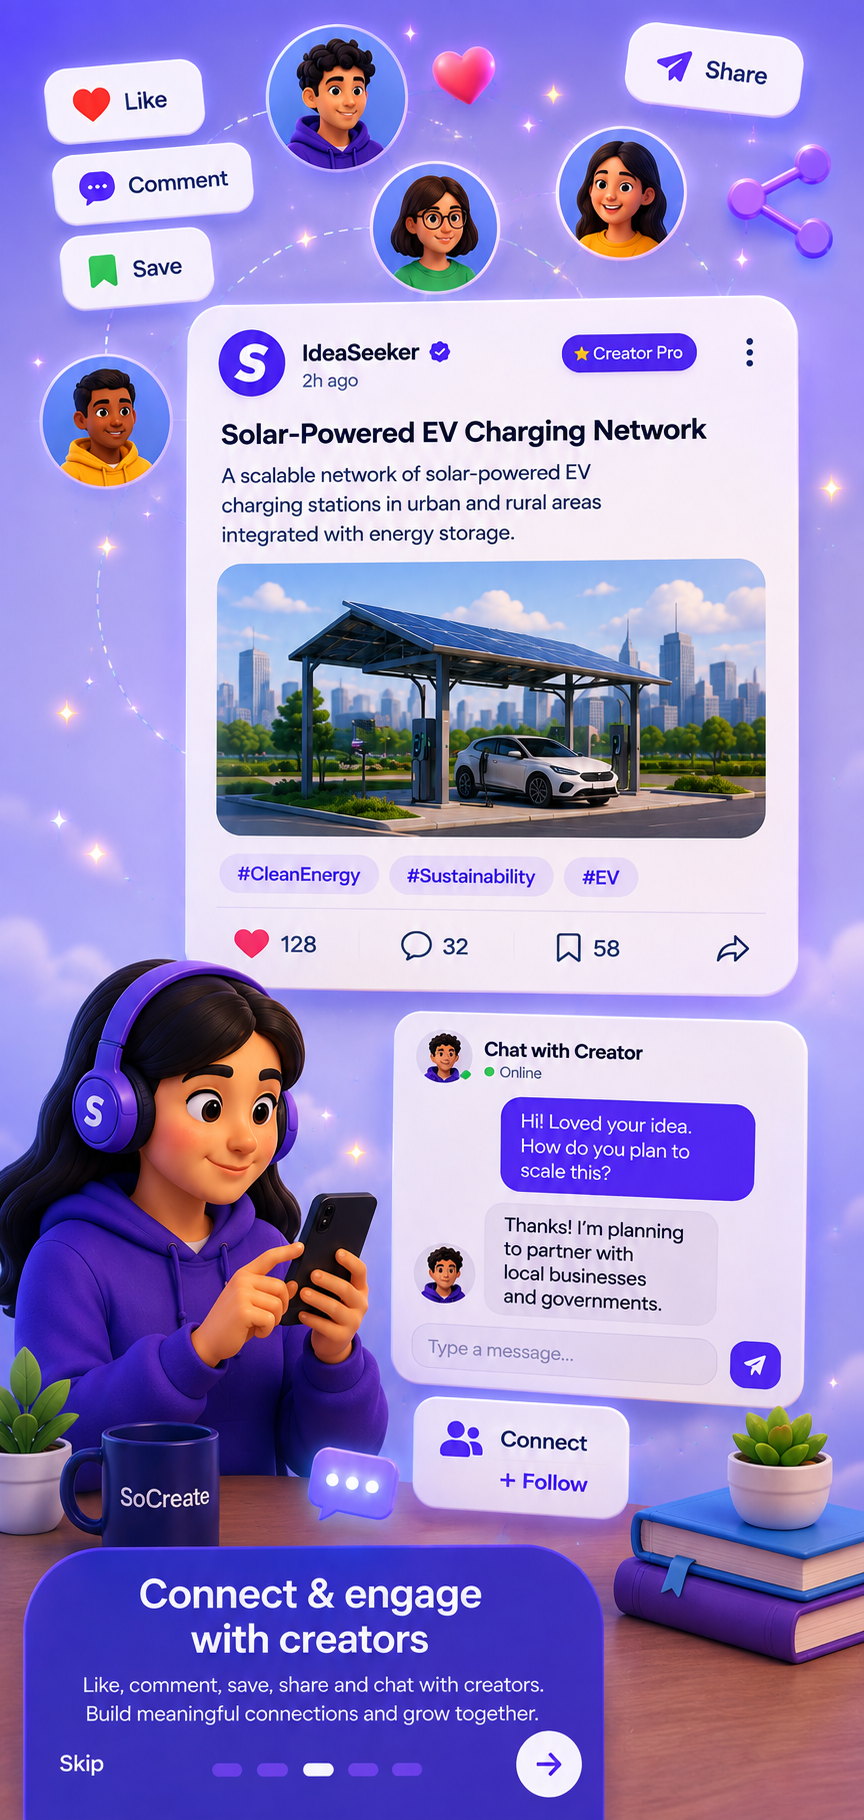
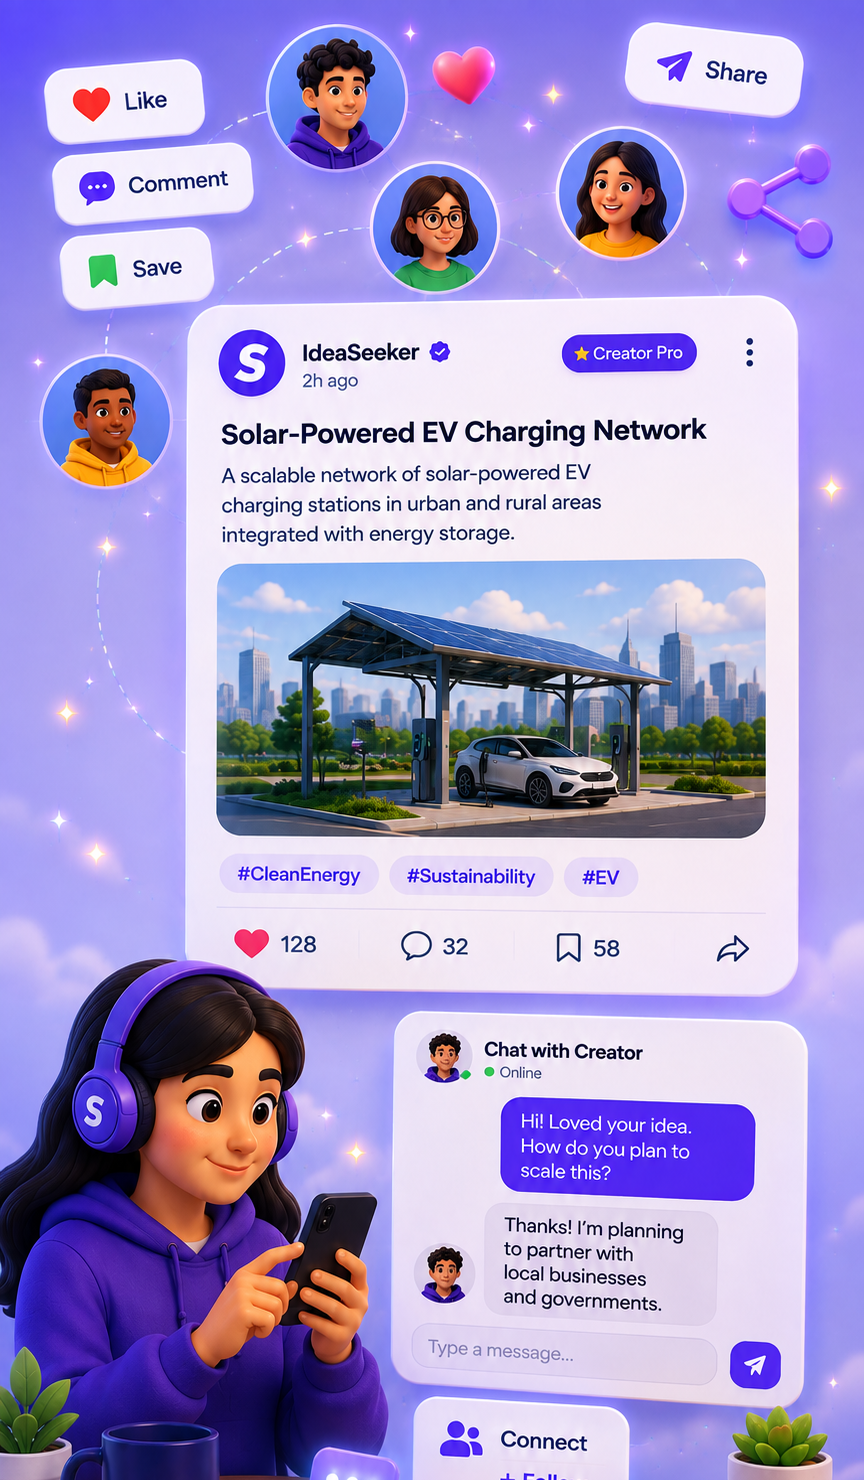
feat: dual mobile/desktop onboarding illustrations with object-position fix

diff --git a/ideaspark/src/pages/Onboarding.jsx b/ideaspark/src/pages/Onboarding.jsx
@@ -2,11 +2,15 @@ import { useState, useRef, useEffect } from 'react';
 import { useNavigate } from 'react-router-dom';
 import { useAuth } from '../context/AuthContext';
 
-/* Illustrations — custom branded 3D artwork per step. */
+/* Illustrations — portrait (mobile) + wide (desktop) per step. */
 import discoverImg from '../assets/onboarding/discover.png';
+import discoverWideImg from '../assets/onboarding/discover-wide.png';
 import createImg from '../assets/onboarding/create.png';
+import createWideImg from '../assets/onboarding/create-wide.png';
 import connectImg from '../assets/onboarding/connect.png';
+import connectWideImg from '../assets/onboarding/connect-wide.png';
 import growImg from '../assets/onboarding/grow.png';
+import growWideImg from '../assets/onboarding/grow-wide.png';
 
 const STEPS = [
   {
@@ -14,6 +18,7 @@ const STEPS = [
     badgeColor: '#FB8C00',
     imageCaption: 'Discover Ideas',
     illustration: discoverImg,
+    illustrationWide: discoverWideImg,
     title: 'Discover ideas worth exploring',
     description:
       'Explore original thoughts, stories, knowledge, and perspectives shared by people from different backgrounds.',
@@ -23,6 +28,7 @@ const STEPS = [
     badgeColor: '#8E24AA',
     imageCaption: 'Create & Publish',
     illustration: createImg,
+    illustrationWide: createWideImg,
     title: 'Turn your ideas into something real',
     description:
       'Have an idea, story, experience, or knowledge to share? Create and publish it on SoCreate.',
@@ -32,6 +38,7 @@ const STEPS = [
     badgeColor: '#00BCD4',
     imageCaption: 'Connect & Engage',
     illustration: connectImg,
+    illustrationWide: connectWideImg,
     title: 'Ideas become better together',
     description:
       'React, like, comment, save, and connect with creators. Discover different perspectives.',
@@ -41,6 +48,7 @@ const STEPS = [
     badgeColor: '#43A047',
     imageCaption: 'Grow With Your Ideas',
     illustration: growImg,
+    illustrationWide: growWideImg,
     title: 'Your ideas can go further',
     description:
       'Build your audience, understand how your content performs, and earn from the ideas you create.',
@@ -104,114 +112,109 @@ export default function Onboarding() {
   const current = STEPS[step];
 
   return (
-    /* Outer shell — always fills the viewport with the navy brand colour.
-       On mobile the inner card stretches to full screen so there's zero
-       visual difference from before. On wider / landscape screens it
-       centres a phone-sized frame so the portrait illustrations display
-       correctly without cropping — title, description, dots, and buttons
-       all stay overlaid on the artwork. */
     <div
-      className="min-h-screen bg-[#0B1E3C] flex items-center justify-center"
+      ref={containerRef}
+      className="min-h-screen relative select-none overflow-hidden bg-[#0B1E3C]"
       onTouchStart={onTouchStart}
       onTouchEnd={onTouchEnd}
     >
-      <div
-        ref={containerRef}
-        className="relative select-none overflow-hidden bg-[#0B1E3C]
-                   w-full h-screen
-                   sm:max-w-[480px] sm:h-[min(100vh,900px)] sm:rounded-3xl
-                   sm:shadow-2xl sm:shadow-black/40"
-      >
-        {/* ── Illustration layers (cross-fade on step change) ──────── */}
-        {STEPS.map((s, i) => (
-          <div
-            key={s.label}
-            className={`absolute inset-0 transition-opacity duration-500 ease-out
-                        ${i === step ? 'opacity-100' : 'opacity-0'}`}
-          >
-            <div className="absolute inset-0">
+      {/* ── Full-bleed illustrations ─────────────────────────────────
+          <picture> swaps the asset by viewport width:
+          • Mobile (< 640px) → portrait image  (tall, 9:19-ish)
+          • Desktop (≥ 640px) → wide image     (square / landscape)
+          Both use object-cover so the artwork always fills the entire
+          screen edge-to-edge with no gaps or phone-frame wrapper. ── */}
+      {STEPS.map((s, i) => (
+        <div
+          key={s.label}
+          className={`absolute inset-0 transition-opacity duration-500 ease-out
+                      ${i === step ? 'opacity-100' : 'opacity-0'}`}
+        >
+          <div className="absolute inset-0">
+            <picture className="w-full h-full">
+              <source media="(min-width: 640px)" srcSet={s.illustrationWide} />
               <img
                 src={s.illustration}
                 alt={s.imageCaption}
-                className="w-full h-full object-cover"
+                className="w-full h-full object-cover sm:[object-position:center_40%]"
               />
-            </div>
+            </picture>
           </div>
-        ))}
+        </div>
+      ))}
 
-        {/* ── Top scrim + title ─────────────────────────────────────── */}
-        <div
-          className="absolute inset-x-0 top-0 pt-8 pb-16 px-8 pointer-events-none z-10"
-          style={{
-            background:
-              'linear-gradient(to bottom, rgba(11,30,60,0.85) 0%, rgba(11,30,60,0.5) 55%, rgba(11,30,60,0) 100%)',
-          }}
-        >
-          <h2 className="text-white text-2xl font-black leading-tight text-center
-                         drop-shadow-[0_2px_8px_rgba(0,0,0,0.4)]">
-            {current.title}
-          </h2>
+      {/* ── Top scrim + title ─────────────────────────────────────── */}
+      <div
+        className="absolute inset-x-0 top-0 pt-8 pb-16 px-8 pointer-events-none z-10"
+        style={{
+          background:
+            'linear-gradient(to bottom, rgba(11,30,60,0.85) 0%, rgba(11,30,60,0.5) 55%, rgba(11,30,60,0) 100%)',
+        }}
+      >
+        <h2 className="text-white text-2xl font-black leading-tight text-center
+                       drop-shadow-[0_2px_8px_rgba(0,0,0,0.4)]">
+          {current.title}
+        </h2>
+      </div>
+
+      {/* ── Bottom scrim + description / dots / CTA ──────────────── */}
+      <div
+        className="absolute inset-x-0 bottom-0 pt-24 pb-8 px-8 z-10"
+        style={{
+          background:
+            'linear-gradient(to top, rgba(11,30,60,0.92) 0%, rgba(11,30,60,0.6) 55%, rgba(11,30,60,0) 100%)',
+        }}
+      >
+        <p className="text-blue-100/90 text-sm leading-relaxed max-w-xs mx-auto mb-6 text-center
+                      drop-shadow-[0_1px_4px_rgba(0,0,0,0.4)]">
+          {current.description}
+        </p>
+
+        <div className="flex justify-center gap-2 mb-6">
+          {Array.from({ length: total }).map((_, i) => (
+            <div
+              key={i}
+              className={`h-1 rounded-full transition-all duration-300
+                          ${i === step
+                            ? 'w-8 bg-white'
+                            : i < step
+                              ? 'w-4 bg-white/50'
+                              : 'w-4 bg-white/25'}`}
+            />
+          ))}
         </div>
 
-        {/* ── Bottom scrim + description / dots / CTA ──────────────── */}
-        <div
-          className="absolute inset-x-0 bottom-0 pt-24 pb-8 px-8 z-10"
-          style={{
-            background:
-              'linear-gradient(to top, rgba(11,30,60,0.92) 0%, rgba(11,30,60,0.6) 55%, rgba(11,30,60,0) 100%)',
-          }}
-        >
-          <p className="text-blue-100/90 text-sm leading-relaxed max-w-xs mx-auto mb-6 text-center
-                        drop-shadow-[0_1px_4px_rgba(0,0,0,0.4)]">
-            {current.description}
-          </p>
-
-          <div className="flex justify-center gap-2 mb-6">
-            {Array.from({ length: total }).map((_, i) => (
-              <div
-                key={i}
-                className={`h-1 rounded-full transition-all duration-300
-                            ${i === step
-                              ? 'w-8 bg-white'
-                              : i < step
-                                ? 'w-4 bg-white/50'
-                                : 'w-4 bg-white/25'}`}
-              />
-            ))}
-          </div>
-
-          {current.cta ? (
+        {current.cta ? (
+          <button
+            onClick={() => { markSeen(); navigate('/welcome'); }}
+            className="w-full bg-white text-[#1565C0] font-bold py-4
+                       rounded-2xl text-sm active:scale-95 transition-all
+                       shadow-lg shadow-black/20"
+          >
+            Get Started →
+          </button>
+        ) : (
+          <div className="flex items-center justify-between">
             <button
-              onClick={() => { markSeen(); navigate('/welcome'); }}
-              className="w-full bg-white text-[#1565C0] font-bold py-4
-                         rounded-2xl text-sm active:scale-95 transition-all
-                         shadow-lg shadow-black/20"
+              onClick={skip}
+              className="text-white/70 text-sm font-medium hover:text-white transition-colors
+                         py-2 px-1 active:scale-95"
             >
-              Get Started →
+              Skip
             </button>
-          ) : (
-            <div className="flex items-center justify-between">
-              <button
-                onClick={skip}
-                className="text-white/70 text-sm font-medium hover:text-white transition-colors
-                           py-2 px-1 active:scale-95"
-              >
-                Skip
-              </button>
-              <button
-                onClick={next}
-                className="w-11 h-11 rounded-full bg-white text-[#1565C0] flex items-center
-                           justify-center shadow-lg shadow-black/20 active:scale-95 transition-all"
-                aria-label="Next"
-              >
-                <svg className="w-5 h-5" fill="none" viewBox="0 0 24 24"
-                     stroke="currentColor" strokeWidth={2.5}>
-                  <path strokeLinecap="round" strokeLinejoin="round" d="M9 5l7 7-7 7" />
-                </svg>
-              </button>
-            </div>
-          )}
-        </div>
+            <button
+              onClick={next}
+              className="w-11 h-11 rounded-full bg-white text-[#1565C0] flex items-center
+                         justify-center shadow-lg shadow-black/20 active:scale-95 transition-all"
+              aria-label="Next"
+            >
+              <svg className="w-5 h-5" fill="none" viewBox="0 0 24 24"
+                   stroke="currentColor" strokeWidth={2.5}>
+                <path strokeLinecap="round" strokeLinejoin="round" d="M9 5l7 7-7 7" />
+              </svg>
+            </button>
+          </div>
+        )}
       </div>
     </div>
   );
